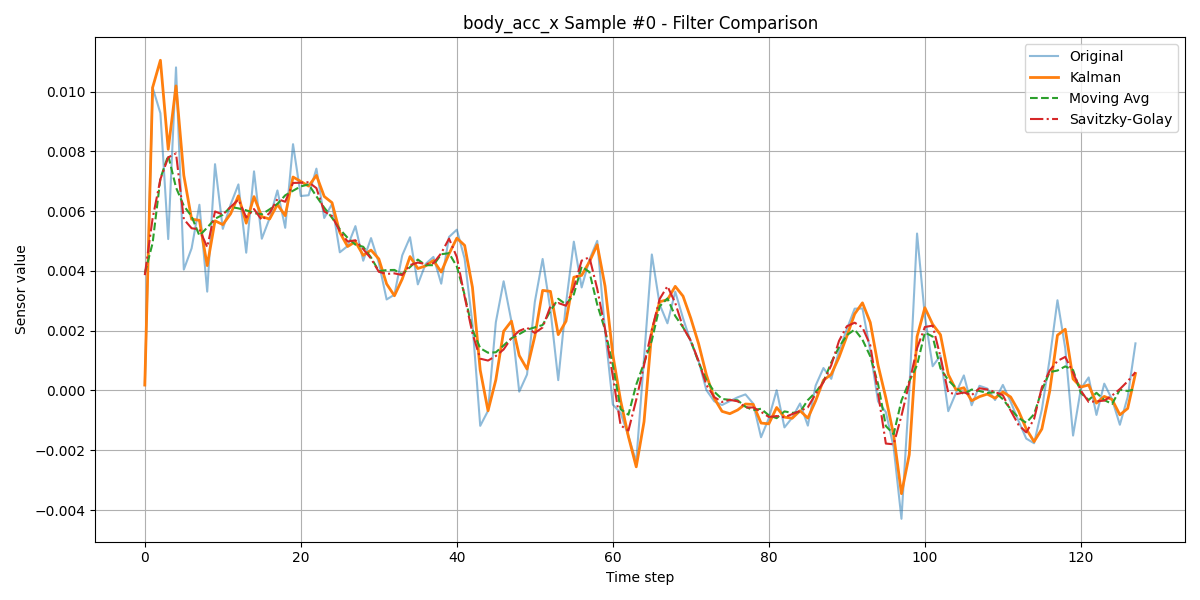
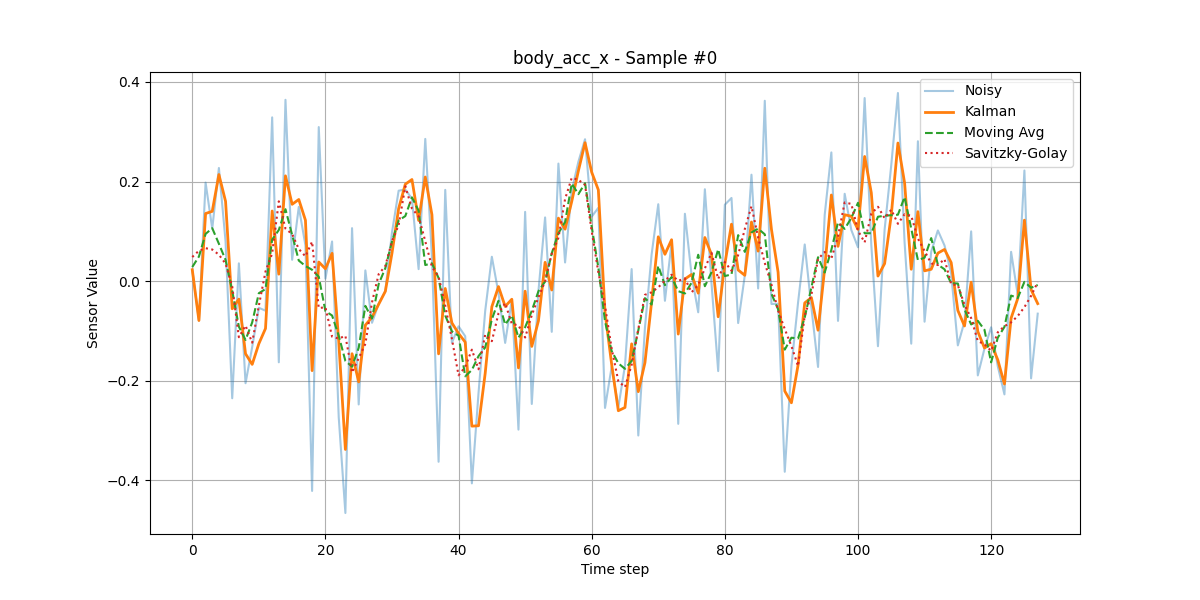
Update all files

diff --git a/kalman_har.py b/kalman_har.py
@@ -2,15 +2,20 @@ import numpy as np
 import matplotlib.pyplot as plt
 from filterpy.kalman import KalmanFilter
 from scipy.signal import savgol_filter
-data = np.loadtxt("C:/Users/kalman p/UCI HAR Dataset/train/Inertial Signals/body_acc_x_train.txt")
+from sklearn.metrics import mean_squared_error
+import os
 
+# Load .txt signal files
+def load_signal(file_path):
+    return np.loadtxt(file_path)
 
-# Moving average
-def moving_average(signal, window_size=5):
-    return np.convolve(signal, np.ones(window_size)/window_size, mode='same')
+# Add synthetic noise
+def add_noise(signal, noise_level=0.2):
+    noise = np.random.normal(0, noise_level, size=signal.shape)
+    return signal + noise
 
-# Kalman filter
-def kalman_filter(signal):
+# Kalman Filter
+def apply_kalman(signal):
     kf = KalmanFilter(dim_x=2, dim_z=1)
     kf.x = np.array([[0.], [0.]])
     kf.F = np.array([[1., 1.], [0., 1.]])
@@ -24,74 +29,100 @@ def kalman_filter(signal):
         kf.predict()
         kf.update(z)
         filtered.append(kf.x[0, 0])
-    return np.array(filtered)
+    return np.array(filtered), kf
 
-# Load signal
-def load_signal(file_path):
-    return np.loadtxt(file_path)
+# Moving Average
+def apply_moving_average(signal, window=5):
+    return np.convolve(signal, np.ones(window)/window, mode='same')
 
-from sklearn.metrics import mean_squared_error
+# Savitzky-Golay Filter
+def apply_savgol(signal, window=11, polyorder=2):
+    return savgol_filter(signal, window_length=window, polyorder=polyorder)
 
-def add_noise(signal, noise_level=0.2):
-    noise = np.random.normal(0, noise_level, size=signal.shape)
-    return signal + noise
+# Forecast using Kalman Filter (future N steps)
+def forecast_kalman(kf, steps=10):
+    forecasts = []
+    for _ in range(steps):
+        kf.predict()
+        forecasts.append(kf.x[0, 0])
+    return forecasts
 
-def apply_kalman(signal):
-    return kalman_filter(signal)
-
-for i in [0, 20, 100]:
-    original_signal = data[i]
-    noisy_signal = add_noise(original_signal)
-
-    kalman = apply_kalman(noisy_signal)
-    moving_avg = moving_average(noisy_signal)
-    savgol = savgol(noisy_signal)
-
-    # Evaluate RMSE
-    rmse_kalman = np.sqrt(mean_squared_error(original_signal, kalman))
-    rmse_avg = np.sqrt(mean_squared_error(original_signal, moving_avg))
-    rmse_savgol = np.sqrt(mean_squared_error(original_signal, savgol))
-
-    print(f"[{sensor_name} - Sample {i}]")
-    print(f"  RMSE Kalman       : {rmse_kalman:.4f}")
-    print(f"  RMSE Moving Avg   : {rmse_avg:.4f}")
-    print(f"  RMSE Savitzky-Golay: {rmse_savgol:.4f}")
-
-    plot_all_filters(noisy_signal, kalman, moving_avg, savgol, i, sensor_name)
-
-# Plot all filters for comparison
-def compare_filters(signal, signal_name, sample_idx):
-    kalman = kalman_filter(signal)
-    moving_avg = moving_average(signal)
-    savgol = savgol_filter(signal, window_length=9, polyorder=2)
-
+# Plot & compare filters
+def plot_all_filters(original, noisy, kalman, ma, sg, sample_idx, sensor_name):
     plt.figure(figsize=(12, 6))
-    plt.plot(signal, label="Original", alpha=0.5)
-    plt.plot(kalman, label="Kalman", linewidth=2)
-    plt.plot(moving_avg, label="Moving Avg", linestyle='--')
-    plt.plot(savgol, label="Savitzky-Golay", linestyle='-.')
-    plt.title(f"{signal_name} Sample #{sample_idx} - Filter Comparison")
+    plt.plot(noisy, label='Noisy', alpha=0.4)
+    plt.plot(kalman, label='Kalman', linewidth=2)
+    plt.plot(ma, label='Moving Avg', linestyle='--')
+    plt.plot(sg, label='Savitzky-Golay', linestyle=':')
+    plt.title(f"{sensor_name} - Sample #{sample_idx}")
     plt.xlabel("Time step")
-    plt.ylabel("Sensor value")
+    plt.ylabel("Sensor Value")
     plt.legend()
     plt.grid(True)
-    plt.tight_layout()
-    plt.savefig(f"plots/{signal_name}_sample_{sample_idx}.png")
-    plt.show()
 
+    os.makedirs("plots", exist_ok=True)
+    plt.savefig(f"plots/{sensor_name}_sample_{sample_idx}.png")
+    plt.close()
+
+# Main logic
 def main():
-    sensors = {
-        "body_acc_x": "UCI HAR Dataset/train/Inertial Signals/body_acc_x_train.txt",
-        "body_acc_y": "UCI HAR Dataset/train/Inertial Signals/body_acc_y_train.txt",
-        "body_gyro_x": "UCI HAR Dataset/train/Inertial Signals/body_gyro_x_train.txt"
-    }
+    print("Starting Kalman Filter Project on HAR Dataset...\n")
 
-    for name, path in sensors.items():
-        print(f"\nProcessing {name}...")
-        data = load_signal(path)
-        for i in [0, 10, 50]:  # Pick a few sample windows
-            signal = data[i]
-            compare_filters(signal, name, i)
+    # List of all 9 Inertial Signals in UCI HAR
+    sensors = [
+        "body_acc_x", "body_acc_y", "body_acc_z",
+        "body_gyro_x", "body_gyro_y", "body_gyro_z",
+        "total_acc_x", "total_acc_y", "total_acc_z"
+    ]
+
+    # Choose samples to test
+    sample_ids = [0, 20, 100]
+
+    for sensor in sensors:
+        file_path = f"UCI HAR Dataset/train/Inertial Signals/{sensor}_train.txt"
+        if not os.path.exists(file_path):
+            print(f"File not found: {file_path}")
+            continue
+
+        print(f"Processing sensor: {sensor}")
+        data = load_signal(file_path)
+
+        for sample_idx in sample_ids:
+            original = data[sample_idx]
+            noisy = add_noise(original, noise_level=0.2)
+
+            kalman_filtered, kf = apply_kalman(noisy)
+            moving_avg = apply_moving_average(noisy)
+            savgol = apply_savgol(noisy)
+
+            # Forecast next 10 values
+            forecast = forecast_kalman(kf, steps=10)
+
+            # RMSE Evaluation
+            rmse_kalman = np.sqrt(mean_squared_error(original, kalman_filtered))
+            rmse_ma = np.sqrt(mean_squared_error(original, moving_avg))
+            rmse_sg = np.sqrt(mean_squared_error(original, savgol))
+
+            print(f" Sample #{sample_idx} RMSE:")
+            print(f"   Kalman       : {rmse_kalman:.4f}")
+            print(f"   Moving Avg   : {rmse_ma:.4f}")
+            print(f"   Savitzky-Golay: {rmse_sg:.4f}")
+
+            # Plot
+            plot_all_filters(original, noisy, kalman_filtered, moving_avg, savgol, sample_idx, sensor)
+
+            # Plot forecast (optional)
+            plt.figure(figsize=(10, 4))
+            plt.plot(kalman_filtered, label="Kalman Filtered")
+            plt.plot(range(len(kalman_filtered), len(kalman_filtered)+len(forecast)), forecast, 'r--', label="Forecast")
+            plt.title(f"{sensor} - Forecast after Sample #{sample_idx}")
+            plt.legend()
+            plt.grid(True)
+            plt.savefig(f"plots/{sensor}_forecast_sample_{sample_idx}.png")
+            plt.close()
+
+    print("\n✅ All signals processed. Plots saved in 'plots/' folder.")
 
 if __name__ == "__main__":
     main()
+
